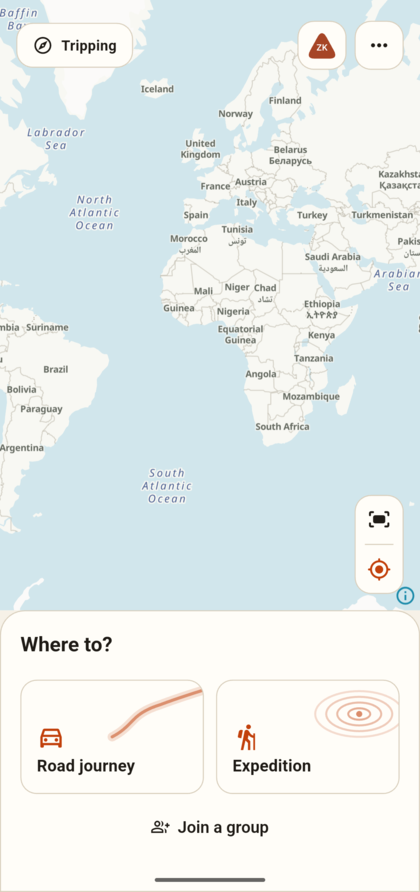
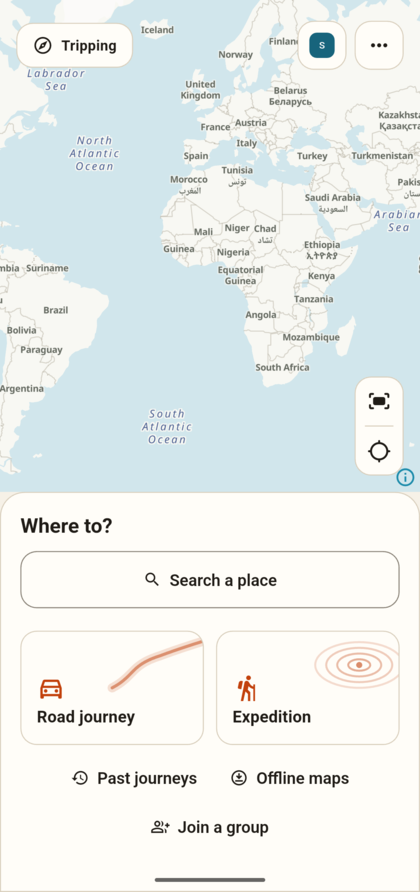
Use Shaad as the name in README screens and test fixtures
Re-capture the identity screen, start screen and both map screens with the
name Shaad, and use it in the identity test and device probes.

diff --git a/tool/pause_probe.dart b/tool/pause_probe.dart
@@ -128,14 +128,14 @@ Future<void> main() async {
   final documents = await getApplicationDocumentsDirectory();
   final store = JourneyStore.file(File('${documents.path}/journeys.sqlite'));
   final settings = await Settings.open(File('${documents.path}/settings.json'));
-  await settings.setName('Zoya');
+  await settings.setName('Shaad');
   final location = ProbeLocation();
   final recorder = await Recorder.open(store, location);
   // Only the isolated probe's new recording gets a fictional test group.
   recorder.changes.listen((state) async {
     if (state is Recording &&
         await store.membershipOf(state.journey.id) == null) {
-      final invite = Invite.create(state.journey.uuid, 'Zoya');
+      final invite = Invite.create(state.journey.uuid, 'Shaad');
       // For the computer peer only: an emulator-only, fictional test group.
       await File(
         '${documents.path}/probe_invite.txt',

diff --git a/test/app/identity_screen_test.dart b/test/app/identity_screen_test.dart
@@ -35,7 +35,7 @@ void main() {
           ),
         ),
       );
-      await tester.enterText(find.byType(TextField), 'Zoya Khan');
+      await tester.enterText(find.byType(TextField), 'Shaad');
       await tester.tap(find.byTooltip('River'));
       await tester.ensureVisible(find.byTooltip('Rounded square'));
       await tester.tap(find.byTooltip('Rounded square'));
@@ -53,7 +53,7 @@ void main() {
         () => Settings.open(File('${dir.path}/settings.json')),
       );
       expect(again!.identityReady, isTrue);
-      expect(again.identity.value.description, 'Zoya Khan, River, Gate');
+      expect(again.identity.value.description, 'Shaad, River, Gate');
     },
   );
 

diff --git a/tool/identity_probe.dart b/tool/identity_probe.dart
@@ -91,7 +91,7 @@ Future<void> main() async {
         textScale.value = 1;
       case 'companions':
         final journey = (recorder.state as Recording).journey;
-        final invite = Invite.create(journey.uuid, 'Zoya');
+        final invite = Invite.create(journey.uuid, 'Shaad');
         if (await store.membershipOf(journey.id) == null) {
           await store.saveMembership(
             journey.id,

diff --git a/README.md b/README.md
@@ -26,7 +26,7 @@ everyone’s map, so you can tell the group apart at a glance, even in a
 crowd of dots.
 
 <p align="center">
-  <img src="docs/images/identity.png" width="250" alt="The welcome screen: a marker with the initials ZK on a small map with two other people nearby, a name field, six colour tiles and four shape tiles, and a Let’s go button in the chosen colour.">
+  <img src="docs/images/identity.png" width="250" alt="The welcome screen: a marker with the initial S on a small map with two other people nearby, a name field, six colour tiles and four shape tiles, and a Let’s go button in the chosen colour.">
 </p>
 
 ## Give everyone room to travel
